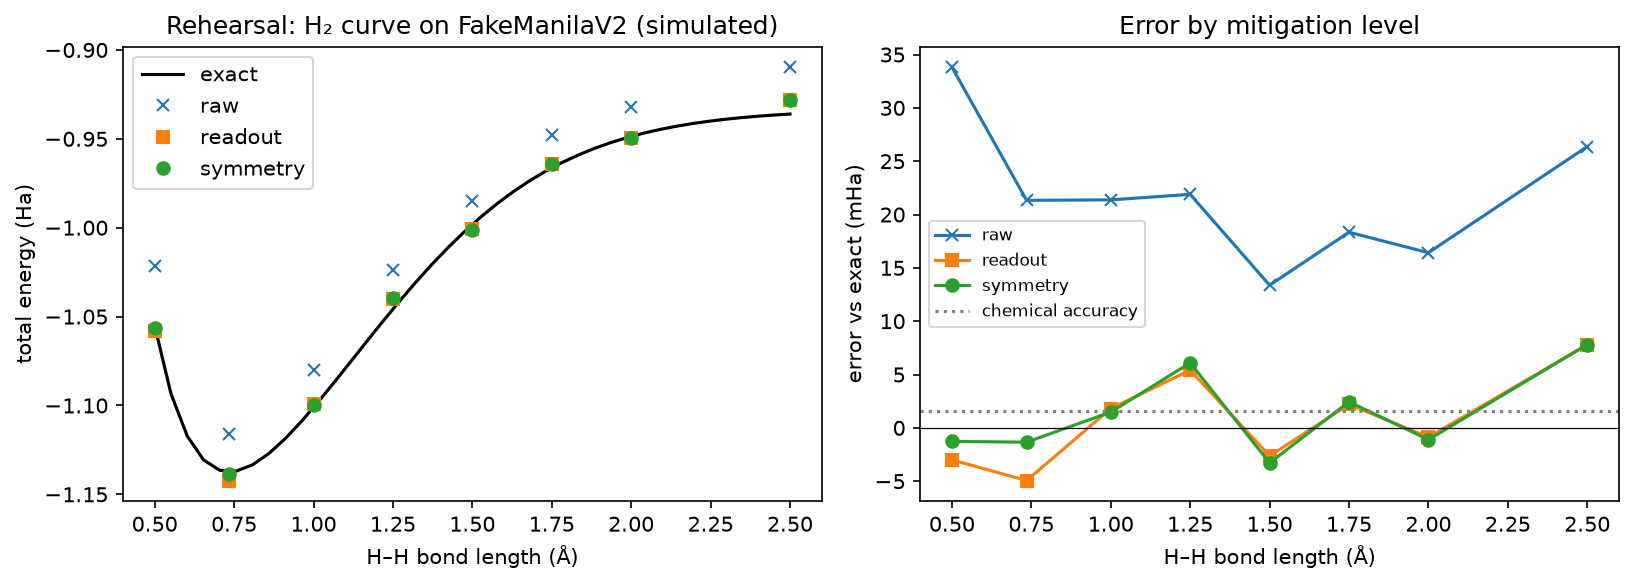
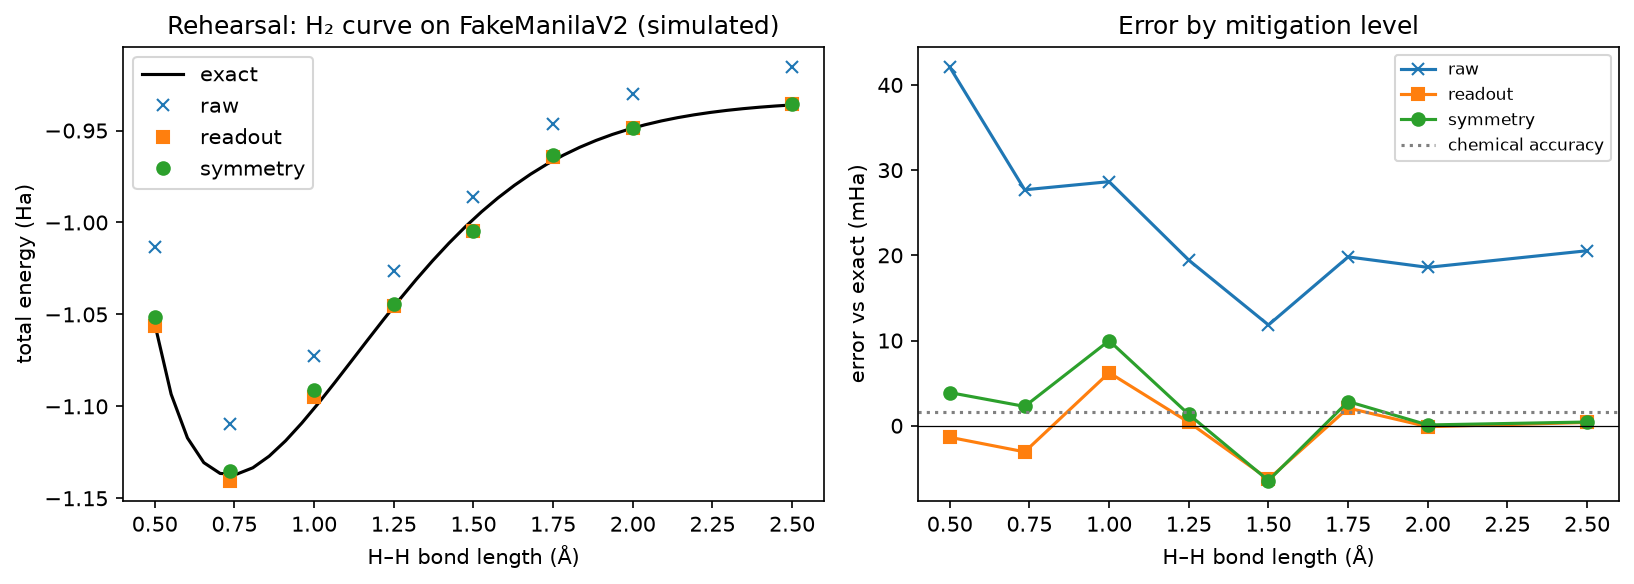
Record best-pair hardware curve and new ibm_fez point in results, notebook and report

diff --git a/scripts/build_notebook.py b/scripts/build_notebook.py
@@ -371,6 +371,20 @@ if token:
     print({d: {k: float(v) for k, v in e.items()} for d, e in hardware_curve["energies"].items()})
 else:
     print("No IBM_QUANTUM_TOKEN found: skipping the real-hardware curve.")""")
+md("""**Recorded runs (author).** Two curves before the qubit-selection fix ran on qubits [0, 1]. On ibm_kingston that gave 180–486 mHa raw errors. After the fix, the same chip on its best pair [148, 149] gave the curve below. Every run is in `results/hardware_runs.json`.""")
+code("""recorded_curve = {"backend": "ibm_kingston", "job_id": "dbe0scfgdj9s73fl0cm0", "date": "2026-10-24",
+                  "physical_qubits": [148, 149], "shots": 4000,
+                  "bonds": [0.5, 0.735, 1.0, 1.25, 1.5, 1.75, 2.0, 2.5],
+                  "raw": [20.55, 10.97, 5.73, 1.79, 11.62, 3.76, 2.67, 5.59],
+                  "readout": [12.29, 5.03, 1.20, -2.31, 7.78, -0.43, -1.91, 0.54],
+                  "symmetry": [7.73, 2.56, -0.37, -3.09, 7.15, -0.69, -2.19, 0.49]}
+fig, ax = plt.subplots()
+for mode, mk in [("raw", "x-"), ("readout", "s-"), ("symmetry", "o-")]:
+    ax.plot(recorded_curve["bonds"], recorded_curve[mode], mk, label=mode)
+ax.axhline(CHEM_ACC_MHA, color="gray", ls=":", label="chemical accuracy"); ax.axhline(0, color="k", lw=0.6)
+ax.set(xlabel="H–H bond length (Å)", ylabel="error vs exact (mHa)",
+       title="Recorded: ibm_kingston, best qubit pair [148, 149] (real hardware)")
+ax.legend(); plt.show()""")
 md("## 9. Summary table\nEvery number quoted in the report comes from this table. The Markdown printout can be pasted straight into the report.")
 code("""best_noiseless_opt = min(OPTIMIZERS, key=lambda o: np.median([r["error_mha"] for r in optimizer_results[o]]))
 summary = [
@@ -389,6 +403,8 @@ summary = [
     {"quantity": "Readout + symmetry filter error, 0.735 Å", "value": symmetry_results[0.735]["mean"], "unit": "mHa", "section": "8b"},
     {"quantity": "H₂ filter on HeH⁺: most negative bias (invalid filter)", "value": min(heh_filter_bias_mha), "unit": "mHa", "section": "8b"},
     {"quantity": "HeH⁺ prototype error, 0.60 Å", "value": heh_results["proto_mha"][0], "unit": "mHa", "section": "8a"},
+    {"quantity": "Real hardware curve, max |readout error| (ibm_kingston best pair, recorded)",
+     "value": max(abs(v) for v in recorded_curve["readout"]), "unit": "mHa", "section": "8d"},
     {"quantity": "Real hardware error, 0.735 Å (ibm_marrakesh, recorded)", "value": recorded_hardware["error_mha"], "unit": "mHa", "section": "8c"},
 ]
 fmt = lambda v, u: f"{v:.6f}" if u == "Ha" else (f"{v:.2f}" if abs(v) >= 0.01 else f"{v:.1e}")

diff --git a/scripts/make_figures.py b/scripts/make_figures.py
@@ -12,7 +12,7 @@ FIG = ROOT / "figures"
 FIG.mkdir(exist_ok=True)
 NAMES = ["02_dissociation", "03_ground_state_weights", "03_ansatz_error", "04a_optimizers", "04b_noisy_optimizers",
          "05_warm_start", "06_noise_mitigation", "07_error_budget", "08a_heh_plus", "08b_symmetry_filter",
-         "08b_falsification", "08d_rehearsal"]
+         "08b_falsification", "08d_rehearsal", "08d_recorded_best_pair"]
 saved = []
 
 
@@ -31,7 +31,7 @@ for cell in json.loads((ROOT / "notebooks" / "vqe_study.ipynb").read_text())["ce
 assert saved == NAMES, saved
 
 runs = json.loads((ROOT / "results" / "hardware_runs.json").read_text())
-fig, axes = plt.subplots(1, len(runs["curves"]), figsize=(11, 4))
+fig, axes = plt.subplots(1, len(runs["curves"]), figsize=(5.5 * len(runs["curves"]), 4))
 for ax, run in zip(axes, runs["curves"]):
     for mode, mk in [("raw", "x-"), ("readout", "s-"), ("symmetry", "o-")]:
         ax.plot(run["bonds"], run[mode], mk, label=mode)

diff --git a/report.md b/report.md
@@ -23,7 +23,7 @@
 - Cut optimizer evaluations by **about 21–23%** by warm-starting each bond length from the previous one.
 - Simulated a real IBM chip's noise: errors grow to **55 mHa**, and readout-error mitigation brings them back to **5.9 mHa**. An error budget shows **readout causes ~86%** of the raw error.
 - Tried **symmetry verification**, a published error filter that follows from the same symmetry, and showed it is **invalid for HeH⁺**: it gives an energy below the true minimum, which the variational principle forbids.
-- Ran on **real IBM quantum hardware** (Open plan): **7.0 mHa** on ibm_marrakesh at 0.735 Å, plus full 8-point dissociation curves. Found that **qubit choice matters**: a bad qubit on ibm_kingston gave errors 10× larger. Fixed the code to choose qubits by calibration.
+- Ran on **real IBM quantum hardware** (Open plan): **7.0 mHa** on ibm_marrakesh at 0.735 Å, plus full 8-point dissociation curves. Found that **qubit choice matters**: on ibm_kingston, qubits [0, 1] gave raw errors up to 486 mHa. After fixing the code to pick qubits by calibration, the same chip gave **1.8–20.6 mHa**.
 - Built it as a tested Python package (`vqe_lab`, 70+ tests), developed in small reviewed pull requests, and ran the notebook top to bottom in Colab.
 
 ## 2. Motivation
@@ -125,18 +125,20 @@ The same reasoning says the filter is **invalid for HeH⁺**. Applying it to HeH
 |---|---|---|---|
 | single point, 0.735 Å, IBM readout mitigation | ibm_marrakesh | dbdat51gv2cc738hoe60 | **7.01 mHa** |
 | same, repeated | ibm_fez | dbdkfnk24mrc739ih5kg | 25.21 mHa |
-| 8-point curve, qubits [0, 1] | ibm_marrakesh | not captured | readout-mitigated 1–17 mHa (4 points within chemical accuracy) |
-| 8-point curve, qubits [0, 1] | ibm_kingston | dbe0bonsstms73fb8lfg | 37–375 mHa (failed, see below) |
+| 8-point curve, qubits [0, 1] | ibm_marrakesh | not captured | readout-mitigated 0.9–17 mHa in size (2 points within chemical accuracy) |
+| 8-point curve, qubits [0, 1] | ibm_kingston | dbe0bonsstms73fb8lfg | readout-mitigated 36–375 mHa (failed, see below) |
+| single point, default qubits | ibm_fez | dbe0rtfpc3tc739kteq0 | 18.64 mHa |
+| **8-point curve, best pair [148, 149]** | **ibm_kingston** | **dbe0scfgdj9s73fl0cm0** | **raw 1.8–20.6, readout-mitigated −2.3–12.3 mHa** |
 
 ![Hardware curves](figures/08d_hardware_curves.png)
 
 - **The noise model holds up:** real hardware gave 7.0 mHa against 5.9 mHa predicted by the mitigated simulator.
 - **My own readout mitigation works on real hardware:** on ibm_marrakesh, raw errors of 18–56 mHa dropped to 1–17 mHa.
-- **Results vary a lot between chips:** the same job gave 7.0 mHa on ibm_marrakesh and 25.2 mHa on ibm_fez.
+- **Results vary a lot between chips and qubits:** the same single-point job gave 7.0 mHa on ibm_marrakesh, and 25.2 and 18.6 mHa on ibm_fez.
 - **The symmetry filter hurt on hardware** at short bond lengths (e.g. 4.6 → 14.4 mHa at 1.0 Å). That is far beyond shot noise, so it is a real effect.
-- **Diagnosing the failure:** both curve runs landed on physical qubits [0, 1], because my code let the transpiler choose them. On ibm_kingston the readout calibration was far off (negative probability mass ≈ −0.7, against ≈ −0.005 in simulation), and IBM's calibration snapshot lists Kingston's qubit 1 at 16.8% readout error (median 0.95%). I fixed the code to choose the qubit pair with the lowest gate and readout error. Whether bad qubits also explain the filter result on ibm_marrakesh is untested, since that run's raw counts were not saved. The code now saves them.
-
-_TODO if the best-qubit rerun finishes: add its job ID and results here._
+- **Diagnosing the failure:** both curve runs landed on physical qubits [0, 1], because my code let the transpiler choose them. On ibm_kingston the readout calibration was far off (negative probability mass ≈ −0.7, against ≈ −0.005 in simulation), and IBM's calibration snapshot lists Kingston's qubit 1 at 16.8% readout error (median 0.95%). I fixed the code to choose the qubit pair with the lowest gate and readout error.
+- **The fix works:** rerun on ibm_kingston's best pair [148, 149], raw errors fell from 180–486 mHa to **1.8–20.6 mHa**, 15–116× smaller on the same chip, depending on bond length. With readout mitigation, 3 of 8 bond lengths are within chemical accuracy (|error| < 1.6 mHa).
+- **On good qubits the symmetry filter helped at short bond lengths** (12.3 → 7.7 mHa at 0.5 Å, 5.0 → 2.6 mHa at 0.735 Å) and was roughly neutral elsewhere. That fits the idea that its earlier failure came from bad qubits, but one run is not proof.
 
 ## 5. What improved over the prototype
 
@@ -146,13 +148,13 @@ _TODO if the best-qubit rerun finishes: add its job ID and results here._
 | When does it fail? | unknown | **predicted and confirmed** (HeH⁺) |
 | Cost of a full curve | cold start each point | **~21–23% fewer evaluations** (warm start) |
 | On a noisy device | untested | 54.8 → 5.9 mHa with readout mitigation. Error budget identifies readout as ~86% |
-| On real hardware | untested | **7.0 mHa** on ibm_marrakesh, full curves, and a qubit-selection bug found and fixed |
+| On real hardware | untested | **7.0 mHa** on ibm_marrakesh. Full curves. Choosing qubits by calibration cut raw errors 15–116× on ibm_kingston |
 
 ## 6. Limitations and honest negatives
 
 - **No quantum advantage is claimed.** These molecules are tiny, and the exact answer is computed classically in milliseconds. The point is understanding how the algorithm and the hardware behave.
 - The HeH⁺ effect is real but small (below chemical accuracy).
-- The symmetry filter's benefit in simulation is within shot noise, and on hardware it hurt. Its hardware failure is not fully explained.
+- The symmetry filter's benefit in simulation is within shot noise. On hardware it hurt on bad qubits and helped at short bond lengths on good ones. That comes from one run each, so it is not settled.
 - SPSA was untuned. The error budget is approximate. The warm-start saving varies by about ±1%.
 - Hardware results depend strongly on the chip and the qubits used on the day.
 
